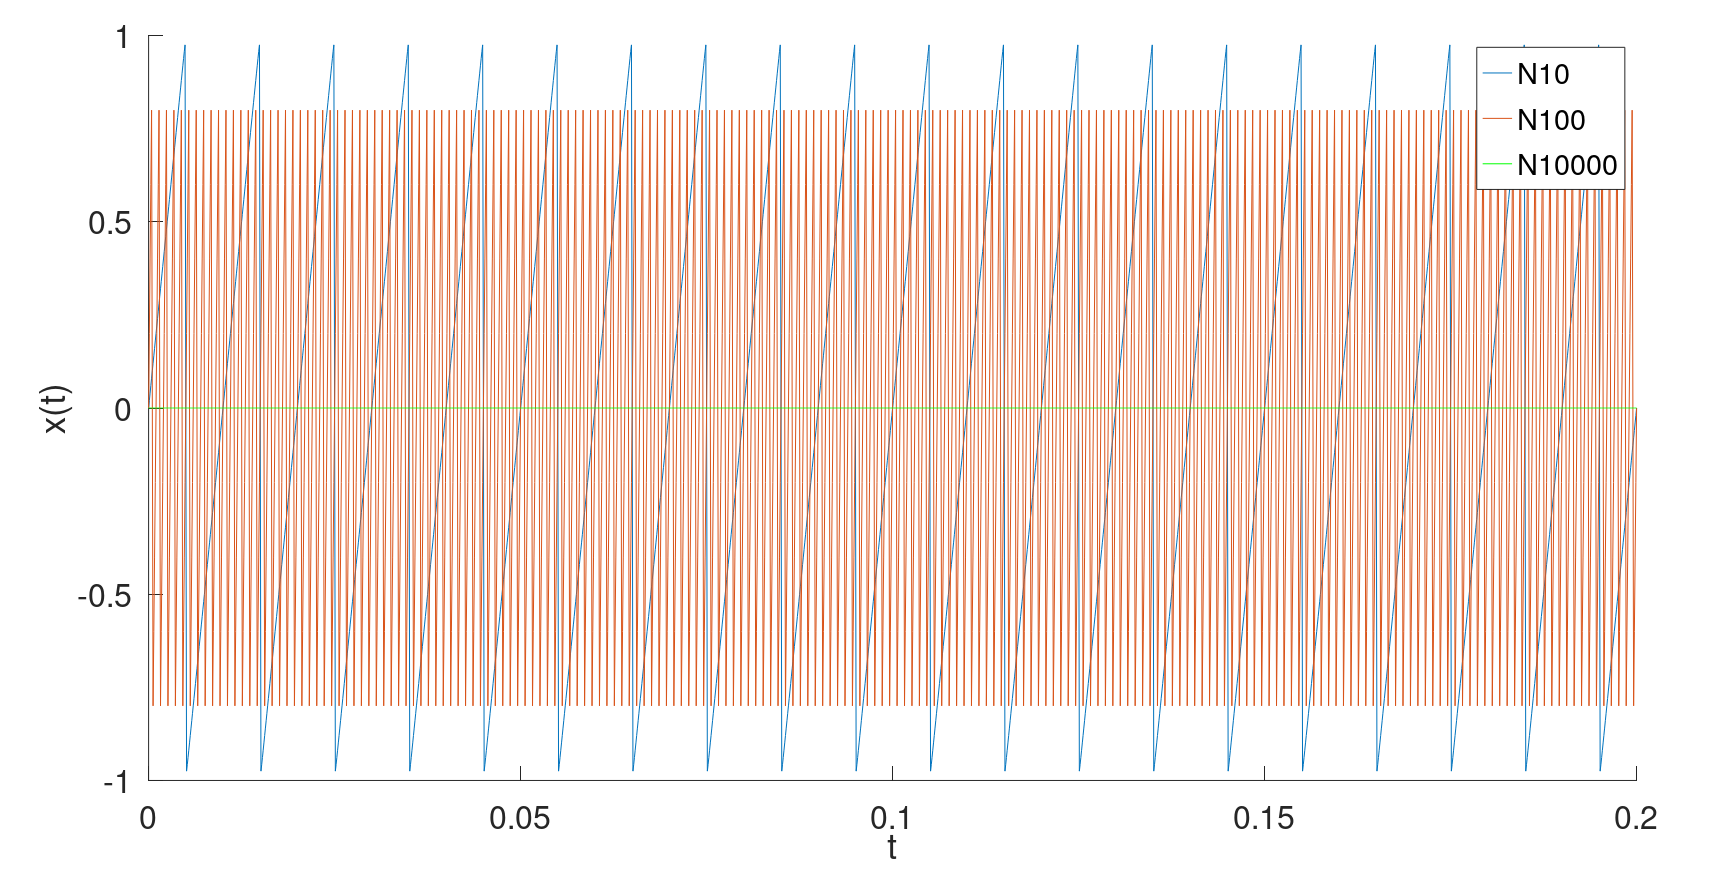
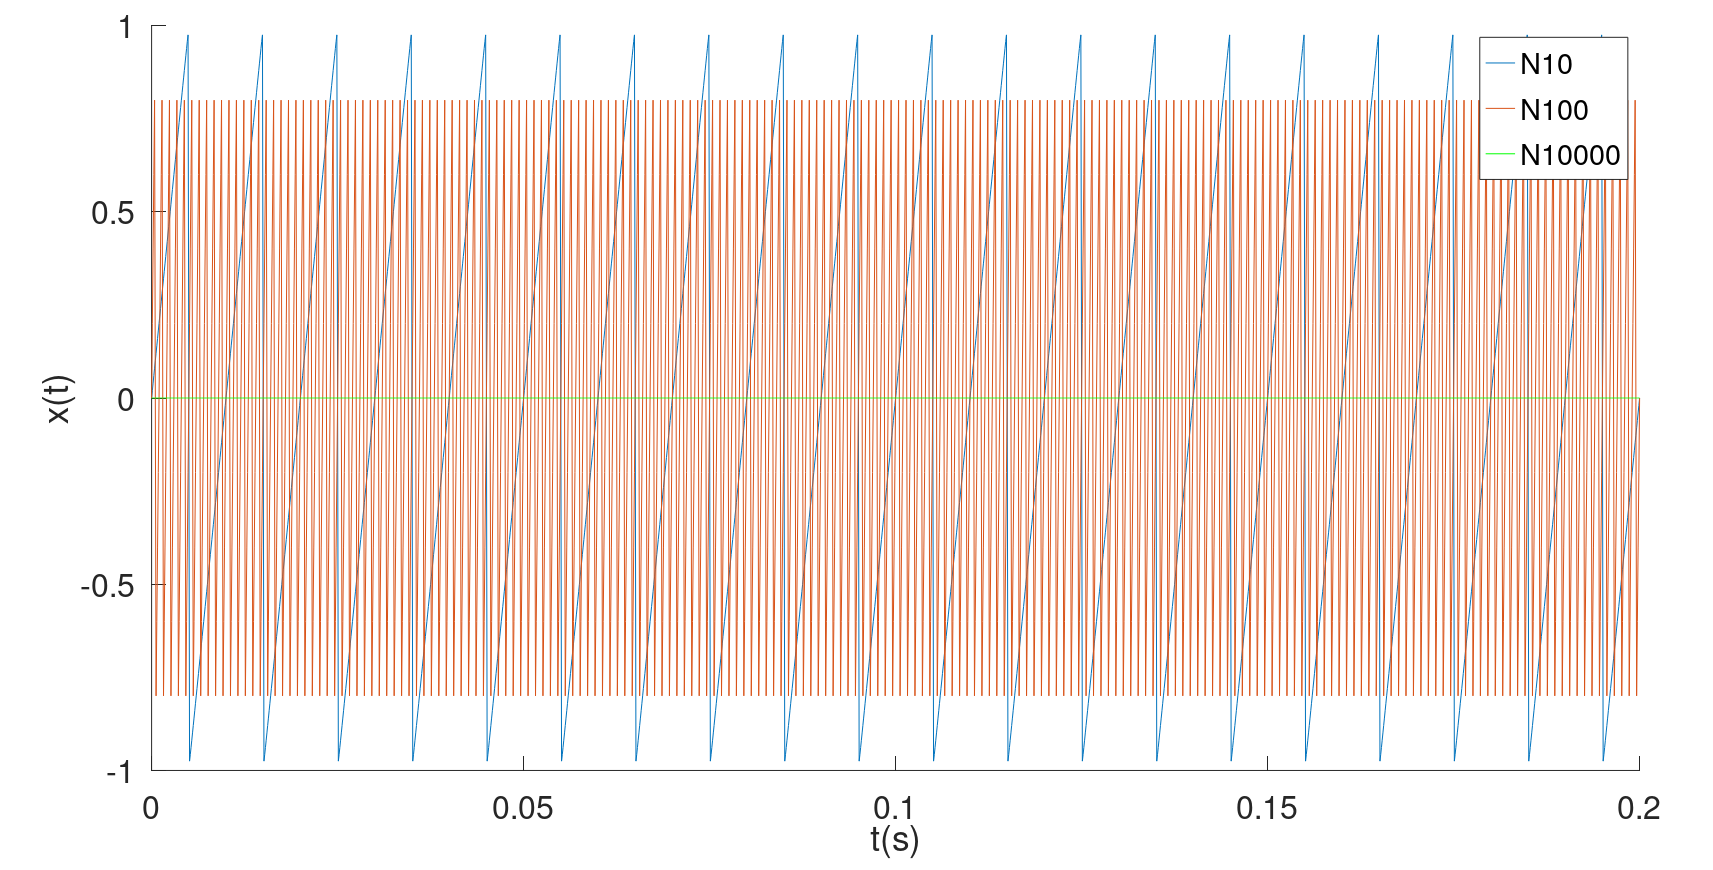
new pictures

diff --git a/dsv1_1.m b/dsv1_1.m
@@ -50,7 +50,7 @@ plot(t, n100)
 hold on
 plot(t, n10000, 'g')
 
-xlabel('t');
+xlabel('t(s)');
 ylabel('x(t)');
 legend('N10', 'N100', 'N10000')
 hold off
@@ -59,7 +59,8 @@ hold off
 figure (2);
 set(gca, "fontsize", 32);
 hold on
-bar([1:length(b)], b);
+% only show coefficient until 100 for better visualization
+bar([1:100], b(1:100));
 xlabel('k');
 ylabel('bk');
 hold off
@@ -75,55 +76,3 @@ hold off
 
 
 
-
-
-
-
-% calculation of ck (only for tests)
-function ck = get_ck()
-  t0 = 1/f0;
-  prefix = 2/t0;
-
-  for k = 1:length(t)
-    func = @(t) n(k).*cos(2.*pi.*k.*f0.*t);
-    a(k) = prefix * integral(func, -t0/2, t0/2);
-  endfor
-
-  ck = prefix * sum;
-end
-
-% calculation for coefficients (only for tests)
-function x = signal(t)
-  omega = 2 * pi * 10;
-  prefix = 2/pi;
-  sum = 0;
-
-  for k = 1:length(t)
-    sum += (-1)^(k-1)/k*sin(omega*k*t);
-  endfor
-
-  x = prefix * sum;
-end
-
-function a = fourier_coeff_a(f0, t)
-  t0 = 1/f0;
-  prefix = 2/t0;
-
-  for k = 1:length(t)
-    func = @(t) n(k).*cos(2.*pi.*k.*f0.*t);
-    a(k) = prefix * integral(func, -t0/2, t0/2);
-  endfor
-end
-
-function a = fourier_coeff_b(f0, t)
-  t0 = 1/f0;
-  prefix = 2/t0;
-
-  for k = 1:length(t)
-    % n(k) is wrong we need n(t)
-    func = @(t) signal(t).*sin(2.*pi.*k.*f0.*t);
-    a(k) = prefix * integral(func, -t0/2, t0/2);
-  endfor
-end
-
-%n10_b = fourier_coeff_b(10 * f0, t);

diff --git a/dsv1_1e_fourier_transform.m b/dsv1_1e_fourier_transform.m
@@ -23,6 +23,7 @@ f_p(2:end-1) = 2*f_p(2:end-1);
 f = 10000*(0:(length(t)/2))/length(t);
 
 figure (2);
+set(gca, "fontsize", 32);
 hold on;
 plot(f, f_p);
 plot(-f, f_p);
